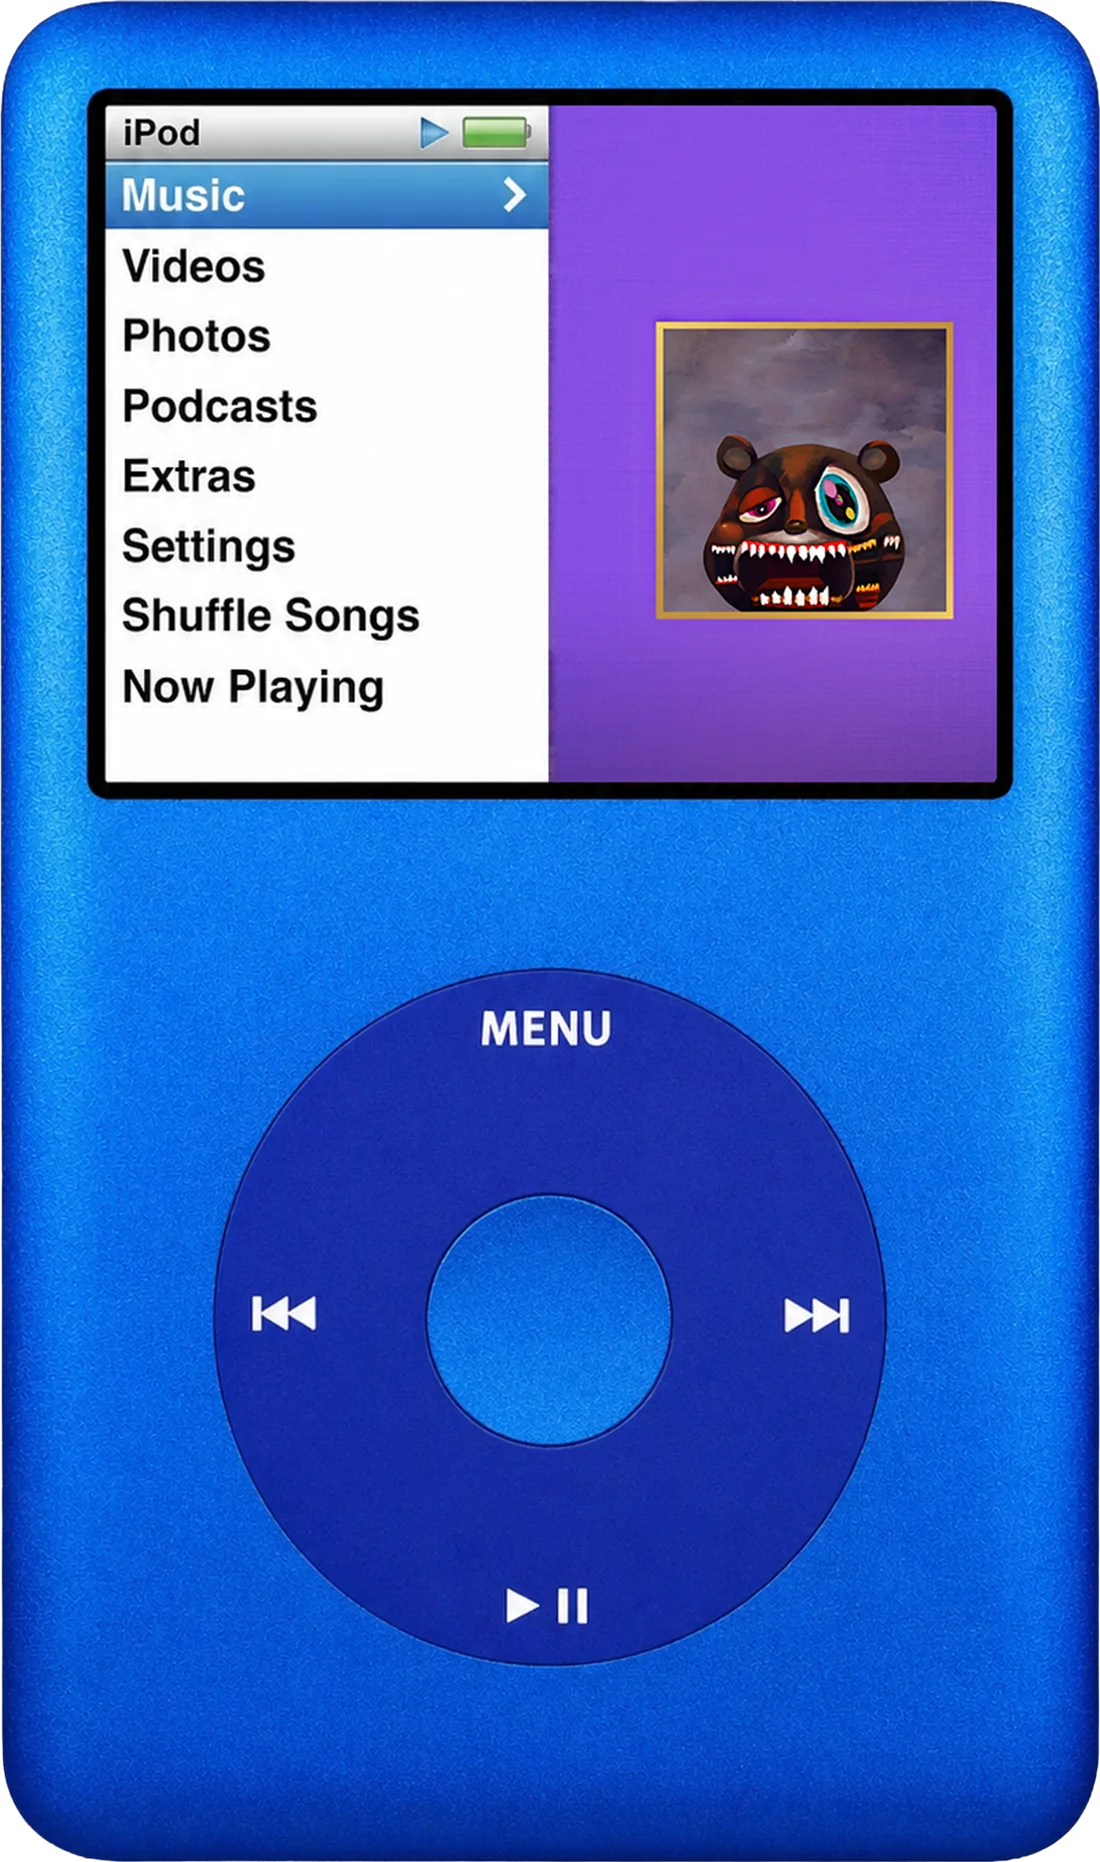
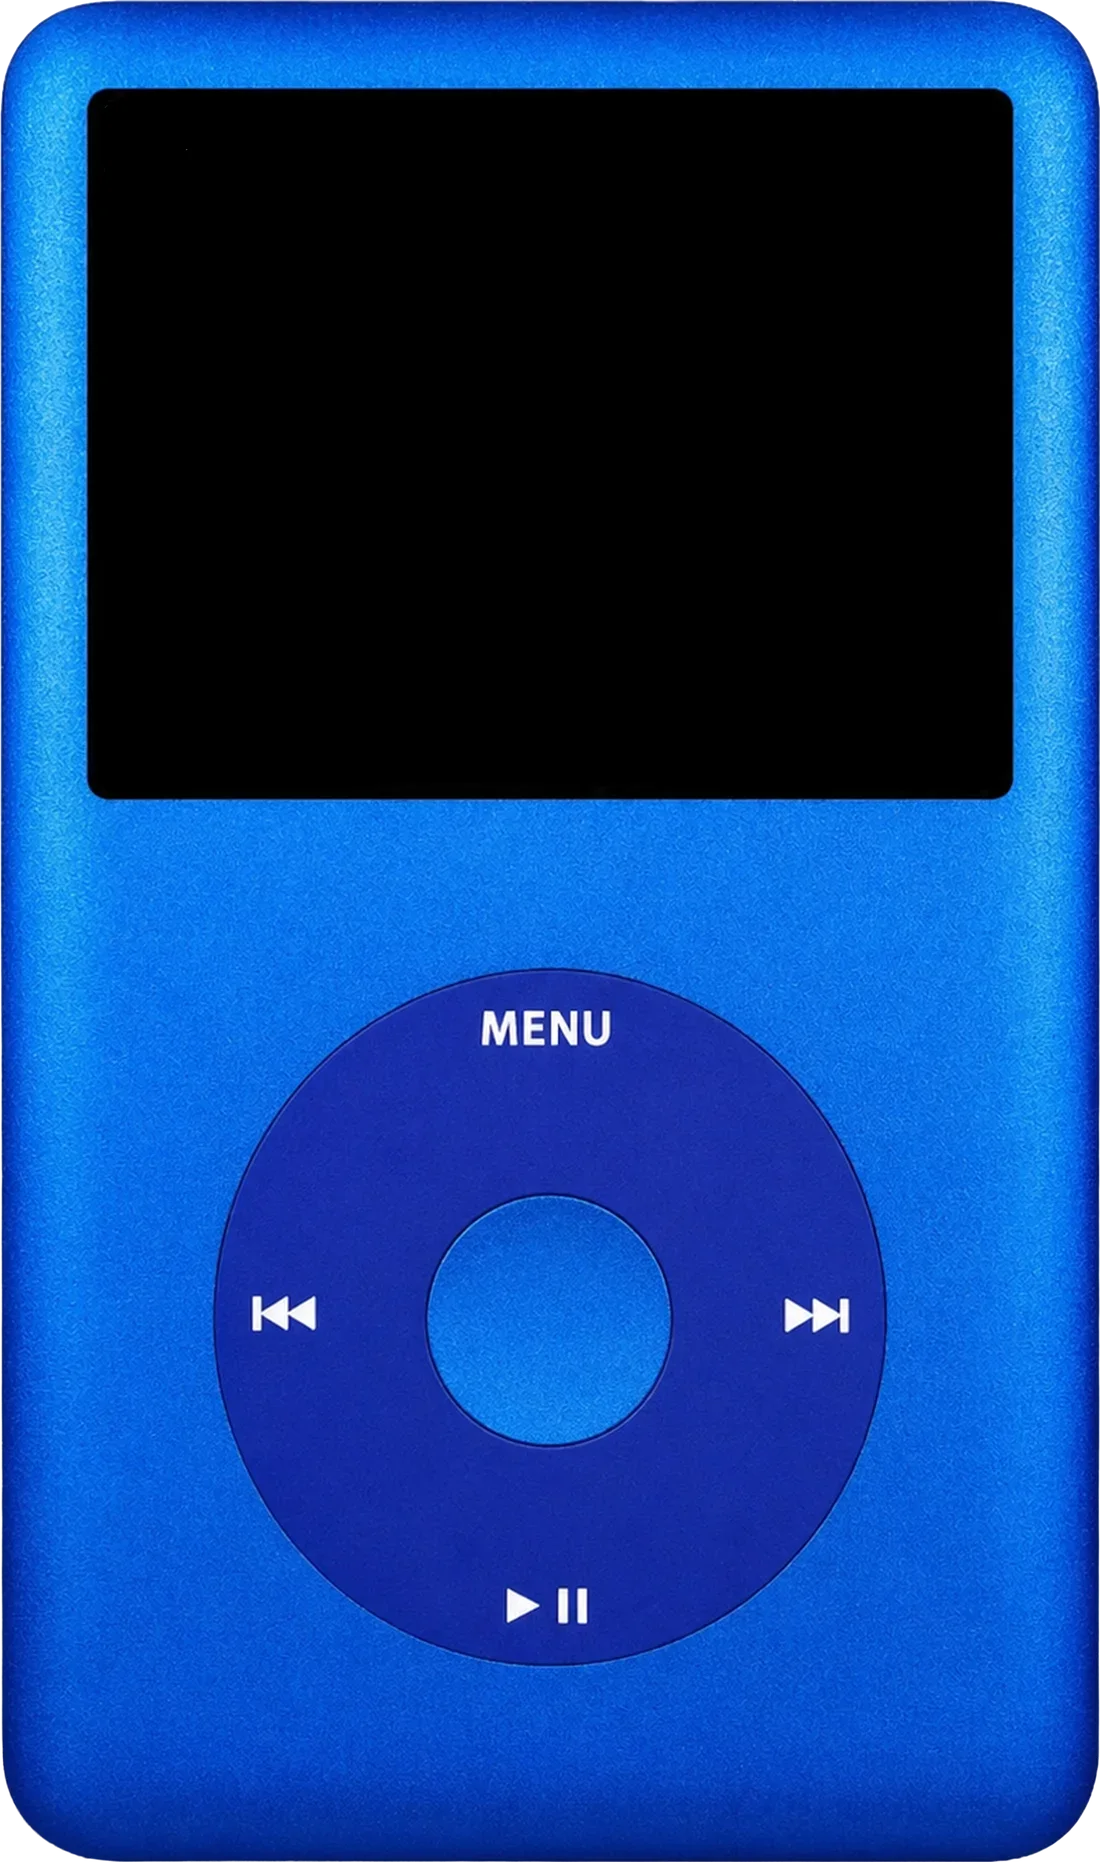
fix(ipod): re-fit fake UI to the new black-screen artwork
User replaced the device art with a blacked-out screen. Re-measured
the screen rectangle from the solid-black region and widened the UI
overlay to match: SCREEN is now 84.18% wide × 38.13% tall (was
71.93 × 37.22), so the live screen fills the device's screen cleanly
instead of leaving black margins. Regenerated ipod.webp (171KB) from
the new source and updated the dock preview's screen box to match.

(The earlier all-black render was a stale Fast-Refresh
"IpodPlayer is not defined" error during edits, not a real bug —
the committed code builds clean.)

Changed region(s): [[0.0927, 0.0311, 0.9273, 0.4361]]

diff --git a/src/components/IpodPlayer.tsx b/src/components/IpodPlayer.tsx
@@ -2,8 +2,9 @@
 
 import { useCallback, useEffect, useRef, useState } from "react";
 
-/* iPod artwork geometry (% of the device image box). */
-const SCREEN = { left: 9.64, top: 5.72, width: 71.93, height: 37.22 };
+/* iPod artwork geometry (% of the device image box), measured from the
+ * blacked-out screen of public/images/ipod.webp. */
+const SCREEN = { left: 7.91, top: 4.78, width: 84.18, height: 38.13 };
 const WHEEL = { cx: 50, cy: 68.5, r: 27, center: 10.5 };
 
 const DALI = "/images/dali-bear.jpg";

diff --git a/src/components/IpodDock.tsx b/src/components/IpodDock.tsx
@@ -48,7 +48,7 @@ export function IpodDock() {
           <div
             className="absolute flex flex-col items-center justify-center overflow-hidden rounded-[5px]"
             style={{
-              left: "9.64%", top: "5.72%", width: "71.93%", height: "37.22%",
+              left: "7.91%", top: "4.78%", width: "84.18%", height: "38.13%",
               containerType: "size", background: "linear-gradient(135deg,#7b54d6,#5a34b0)",
             }}
           >
